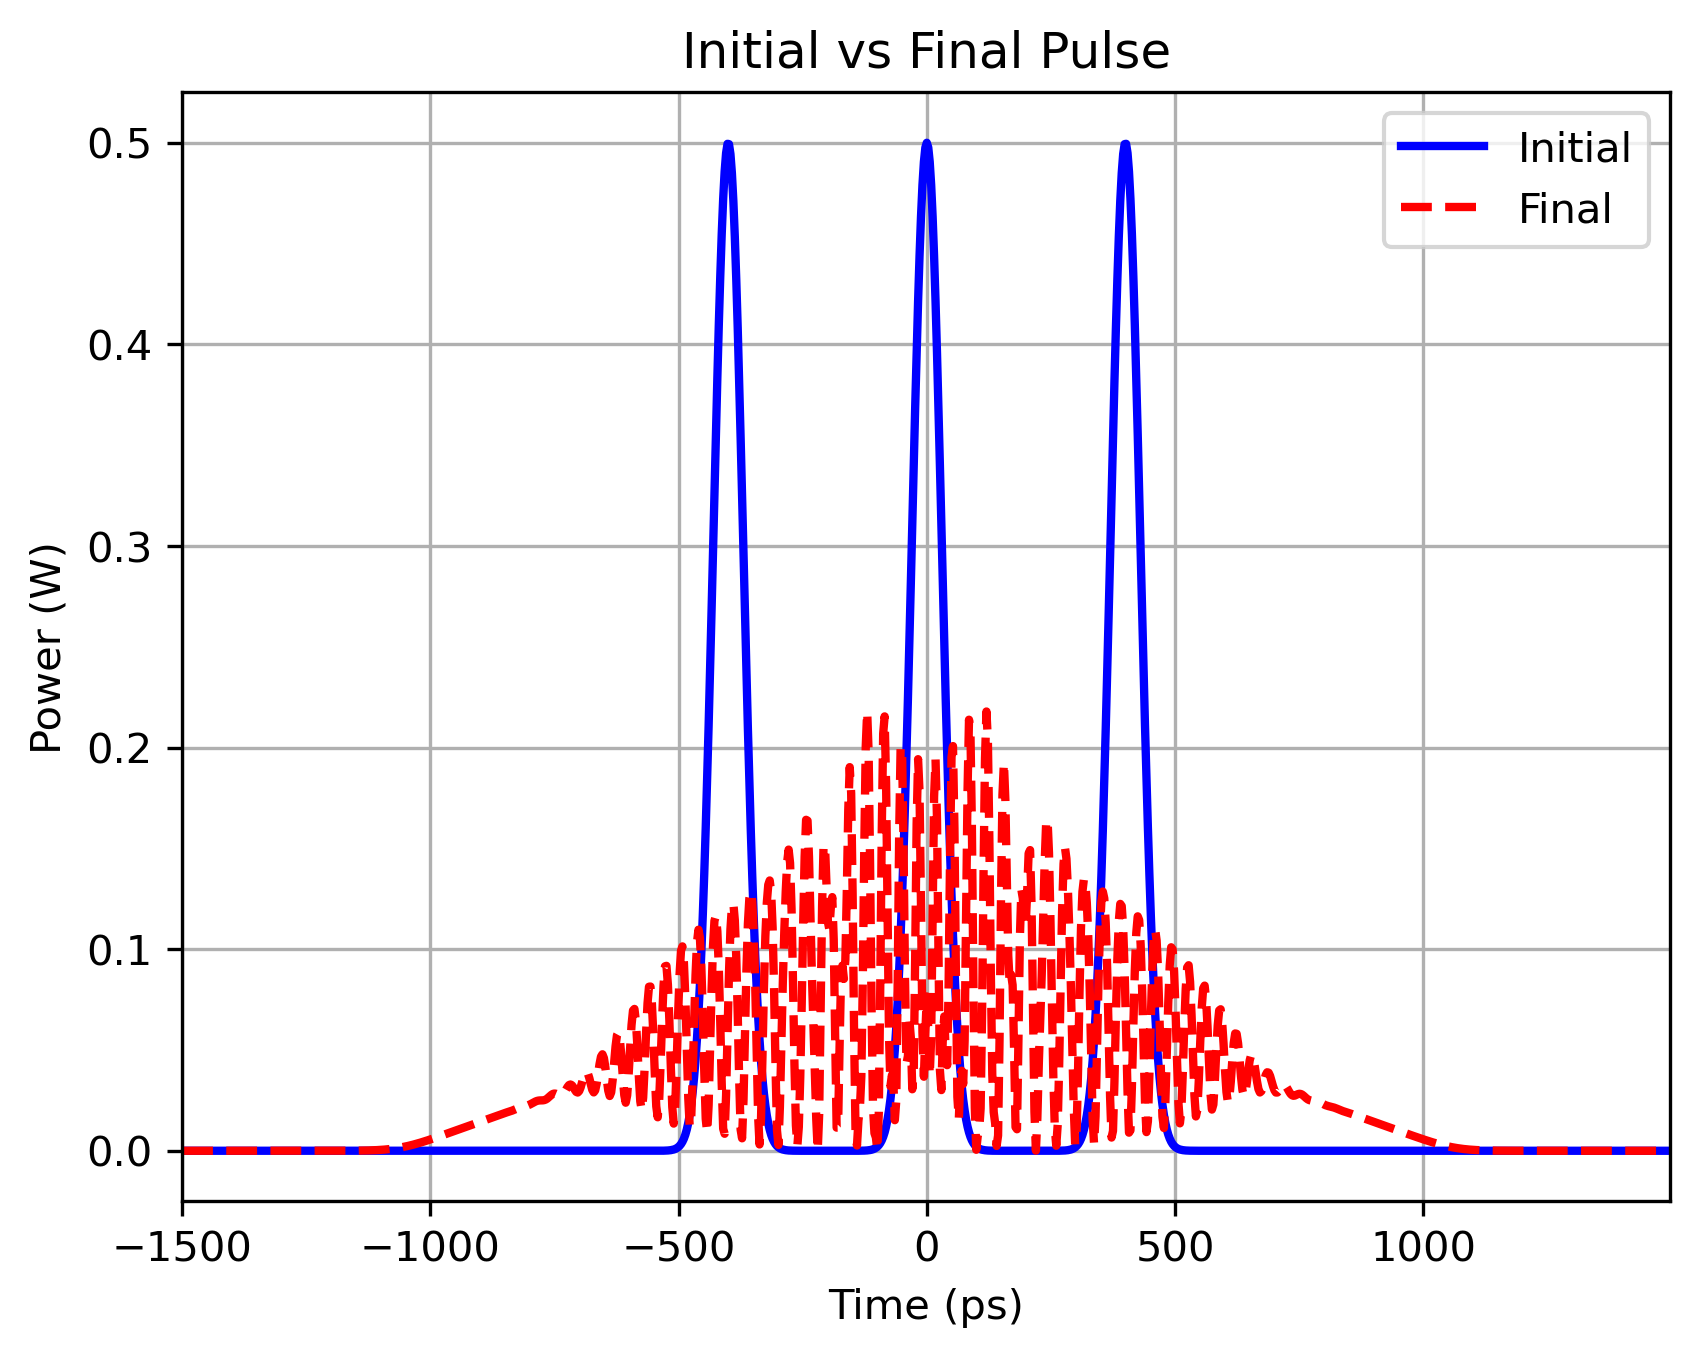
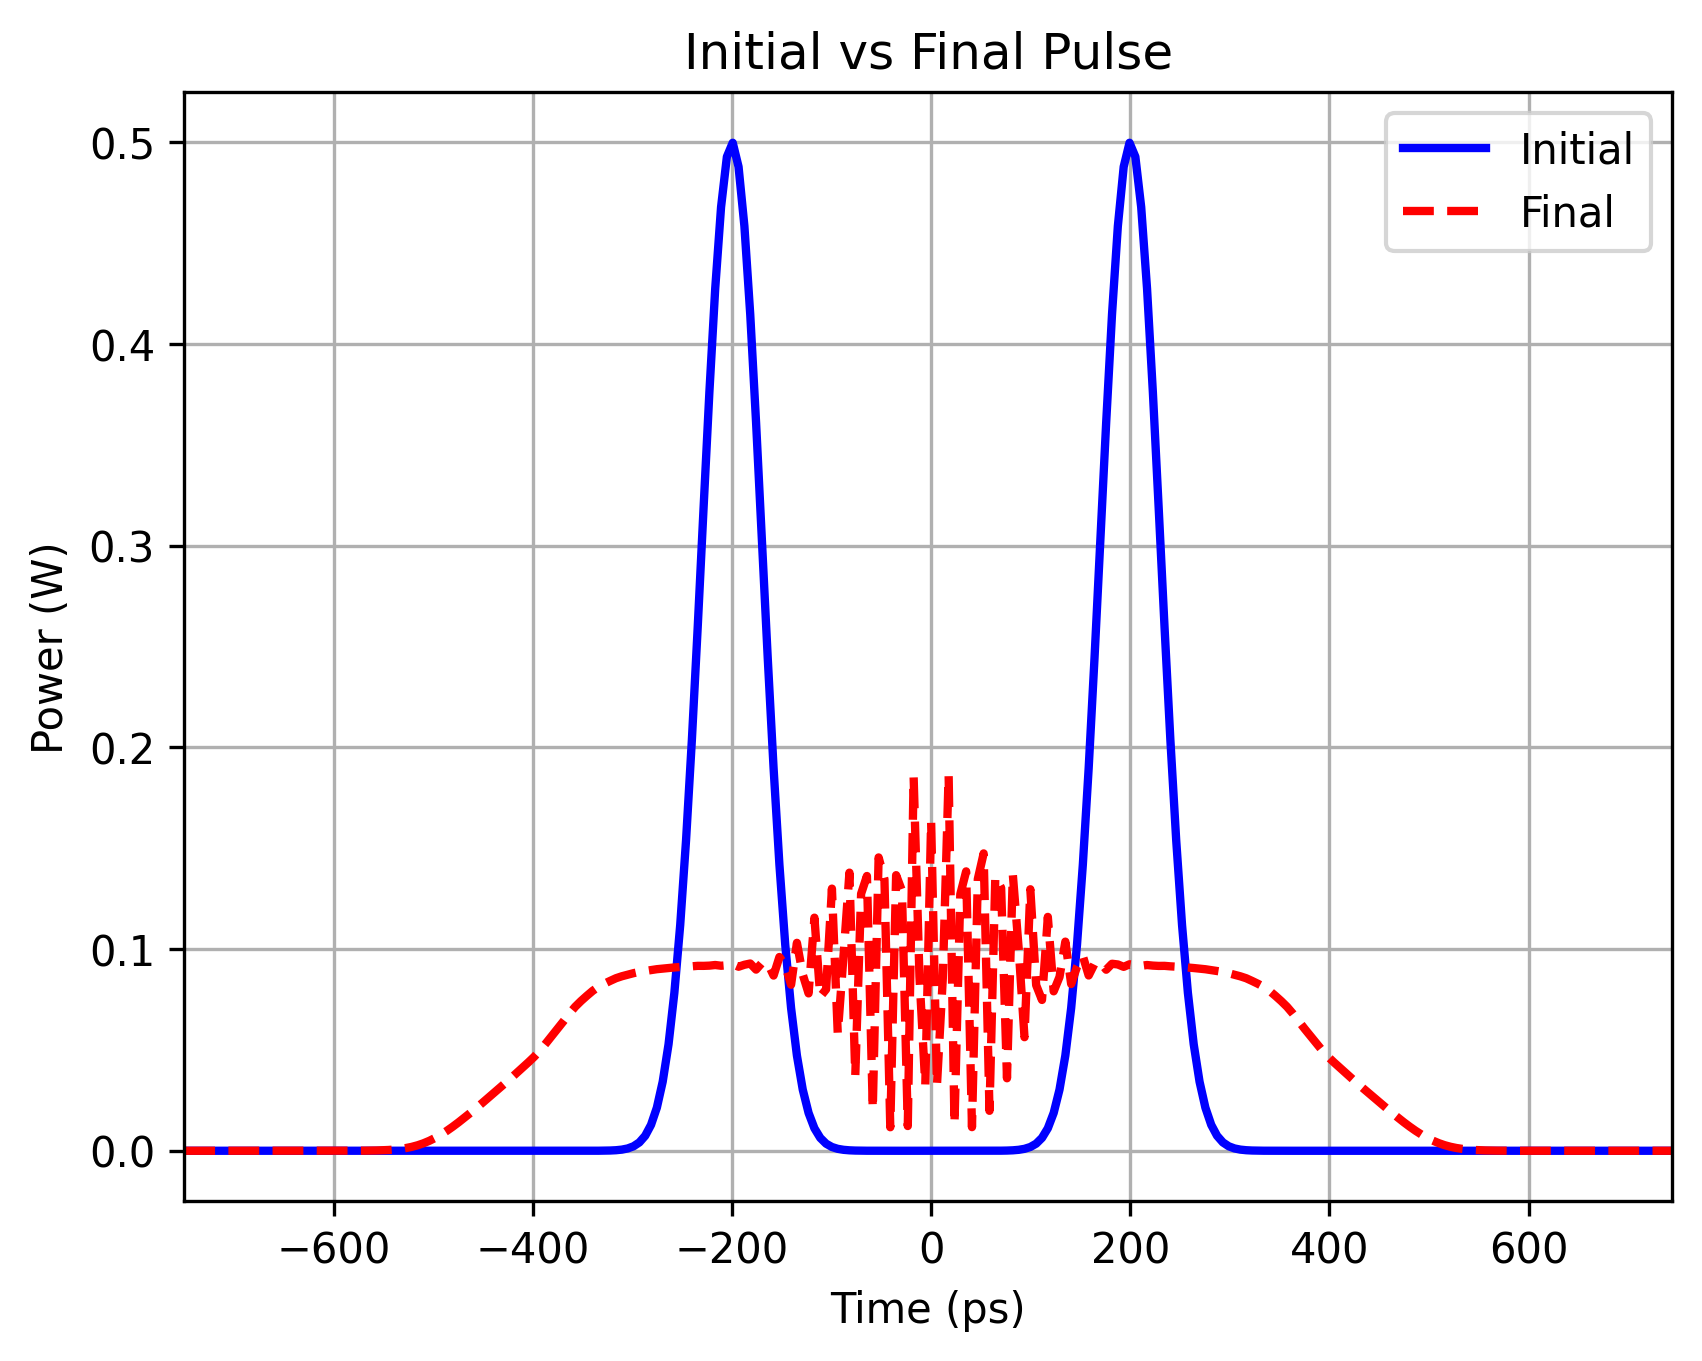
t_ratio3

diff --git a/tune.py b/tune.py
@@ -2,7 +2,7 @@ from __future__ import annotations
 
 import argparse
 from dataclasses import replace
-from typing import List, Sequence, Tuple
+from typing import List, Optional, Sequence, Tuple
 
 import optuna
 
@@ -17,11 +17,11 @@ from train import train
 def split_dataset(
     dataset: PulseEvolutionDataset,
     val_fraction: float,
-    seed: int,
+    seed: int | None,
 ) -> tuple[Subset, Subset]:
     """Randomly split dataset into train/val subsets."""
 
-    generator = torch.Generator().manual_seed(seed)
+    generator = torch.Generator().manual_seed(seed) if seed is not None else None
     indices = torch.randperm(len(dataset), generator=generator)
     val_size = max(1, int(len(indices) * val_fraction))
     val_idx = indices[:val_size]
@@ -47,25 +47,30 @@ def evaluate_mse(model: torch.nn.Module, dataloader: DataLoader, device: torch.d
 
 
 def build_argparser() -> argparse.ArgumentParser:
+    default_cfg = TrainingConfig()
     parser = argparse.ArgumentParser(description="Lightweight hyperparameter search over network depth/width.")
     parser.add_argument("--data-path", default="data/pulse_evolution.mat", help="Path to the MATLAB tensor.")
     parser.add_argument("--trials", type=int, default=10, help="Number of Optuna trials.")
-    parser.add_argument("--epochs", type=int, default=30, help="Epochs per trial (keep small for quick sweeps / pruning).")
+    parser.add_argument("--epochs", type=int, default=20, help="Epochs per trial (keep small for quick sweeps / pruning).")
     parser.add_argument("--val-fraction", type=float, default=0.1, help="Validation split fraction.")
     parser.add_argument("--device", choices=["cpu", "cuda", "auto"], default="auto", help="Computation device.")
     parser.add_argument("--mode", choices=["mlp", "pinn"], default="pinn", help="Training mode for trials.")
-    parser.add_argument("--seed", type=int, default=0, help="Random seed for reproducibility.")
-    parser.add_argument("--min-layers", type=int, default=2, help="Minimum hidden layers.")
+    parser.add_argument(
+        "--seed",
+        type=int,
+        default=default_cfg.seed,
+        help="Optional random seed for reproducibility (leave unset for randomised runs).",
+    )
+    parser.add_argument("--min-layers", type=int, default=3, help="Minimum hidden layers.")
     parser.add_argument("--max-layers", type=int, default=3, help="Maximum hidden layers.")
     parser.add_argument("--widths", default="256", help="Comma-separated choices for hidden widths.")
     parser.add_argument("--fourier", default="32", help="Comma-separated choices for Fourier features.")
     parser.add_argument("--external", default="0", help="Comma-separated choices for using external layers (broadcast). Default 0 disables external layers during tuning.")
-    parser.add_argument("--lr-min", type=float, default=1e-4, help="Min learning rate for search (log-scale).")
+    parser.add_argument("--lr-min", type=float, default=9e-4, help="Min learning rate for search (log-scale).")
     parser.add_argument("--lr-max", type=float, default=5e-3, help="Max learning rate for search (log-scale).")
-    parser.add_argument("--res-min", type=float, default=5, help="Min residual_weight for search (log-scale).")
-    parser.add_argument("--res-max", type=float, default=20.0, help="Max residual_weight for search (log-scale).")
-    parser.add_argument("--batches", default="64,128", help="Comma-separated candidate batch sizes for search.")
-    parser.add_argument("--t-ratio", type=float, default=1.0, help="Fraction of t-points per z-slice to sample each epoch (0-1].")
+    parser.add_argument("--res-min", type=float, default=0.1, help="Min residual_weight for search (log-scale).")
+    parser.add_argument("--res-max", type=float, default=1.0, help="Max residual_weight for search (log-scale).")
+    parser.add_argument("--batches", default="256", help="Comma-separated candidate batch sizes for search.")
     return parser
 
 
@@ -102,17 +107,18 @@ def build_time_sampler(dataset, t_ratio: float) -> Sampler | None:
     if isinstance(dataset, Subset) and hasattr(dataset.dataset, "nt"):
         base = dataset.dataset
         nt = int(base.nt)
-        z_to_indices = {}
-        for idx in dataset.indices:
-            z_idx = idx // nt
-            z_to_indices.setdefault(z_idx, []).append(int(idx))
+        # Group subset positions (0..len(subset)-1) by their z-slice.
+        z_to_subset_pos: dict[int, list[int]] = {}
+        for subset_pos, orig_idx in enumerate(dataset.indices):
+            z_idx = int(orig_idx) // nt
+            z_to_subset_pos.setdefault(z_idx, []).append(subset_pos)
 
         class _SubsetTimeSampler(Sampler[int]):
             def __iter__(self):
                 import torch
 
                 chosen: list[int] = []
-                for idxs in z_to_indices.values():
+                for idxs in z_to_subset_pos.values():
                     t_count = len(idxs)
                     t_keep = max(1, int(round(t_count * t_ratio)))
                     perm = torch.randperm(t_count)[:t_keep]
@@ -121,7 +127,7 @@ def build_time_sampler(dataset, t_ratio: float) -> Sampler | None:
                 return iter([chosen[i] for i in perm_all])
 
             def __len__(self) -> int:
-                return sum(max(1, int(round(len(v) * t_ratio))) for v in z_to_indices.values())
+                return sum(max(1, int(round(len(v) * t_ratio))) for v in z_to_subset_pos.values())
 
         return _SubsetTimeSampler()
 
@@ -131,7 +137,8 @@ def build_time_sampler(dataset, t_ratio: float) -> Sampler | None:
 def main() -> None:
     args = build_argparser().parse_args()
 
-    dataset = PulseEvolutionDataset(args.data_path, z_stride=TrainingConfig().z_stride)
+    default_cfg = TrainingConfig()
+    dataset = PulseEvolutionDataset(args.data_path, z_stride=default_cfg.z_stride)
     train_ds, val_ds = split_dataset(dataset, val_fraction=args.val_fraction, seed=args.seed)
 
     width_choices = parse_int_list(args.widths)
@@ -139,7 +146,6 @@ def main() -> None:
     external_choices = parse_bool_list(args.external)
     batch_choices = parse_int_list(args.batches)
 
-    default_cfg = TrainingConfig()
     device_choice = args.device
 
     def objective(trial: optuna.Trial) -> float:
@@ -158,6 +164,7 @@ def main() -> None:
             print_every=max(1, args.epochs // 5),
             device=device_choice,
             mode=args.mode,
+            seed=args.seed,
             hidden_layers=hidden,
             fourier_features=ff,
             external_layers=ext,
@@ -165,6 +172,12 @@ def main() -> None:
             residual_weight=res_w,
             batch_size=bs,
         )
+
+        if cfg.seed is not None:
+            trial_seed = cfg.seed
+            torch.manual_seed(trial_seed)
+            if torch.cuda.is_available():
+                torch.cuda.manual_seed_all(trial_seed)
 
         model = SimplePINN(
             input_dim=2,
@@ -177,7 +190,7 @@ def main() -> None:
             external_snr_db=cfg.external_snr_db,
         )
 
-        train_sampler = build_time_sampler(train_ds, args.t_ratio)
+        train_sampler = build_time_sampler(train_ds, default_cfg.t_ratio)
         val_sampler = None  # keep full validation
 
         train_loader = create_dataloader(

diff --git a/pinn/config.py b/pinn/config.py
@@ -13,37 +13,38 @@ class TrainingConfig:
     """Hyperparameters controlling optimisation."""
 
     # Network architecture
-    hidden_layers: tuple[int, ...] = (256, 256, 128)
+    hidden_layers: tuple[int, ...] = (128, 256, 128)
     external_layers: tuple[bool, ...] = (0,0,0,0)  # broadcast or per-linear-layer flags (hidden + output)
     external_snr_db: float = 30.0
 
-    batch_size: int = 64
-    learning_rate: float = 1e-3
-    num_epochs: int = 100
+    batch_size: int = 256
+    learning_rate: float = 10e-3
+    num_epochs: int = 300
     device: DeviceChoice = "auto"
     print_every: int = 10
+    seed: int | None = 1234
     save_path: str = "checkpoints/pinn_mlp.pt"
     num_workers: int = 0
     pin_memory: bool = False
     max_grad_norm: float = 1.0
-    scheduler_patience: int = 15
-    scheduler_factor: float = 0.5
+    scheduler_patience: int = 10
+    scheduler_factor: float = 0.8
     mode: ModeChoice = "pinn"
 
     # Loss weights and sampling for PINN mode
-    data_weight: float = 1
+    data_weight: float = 1.0
     initial_weight: float = 1.0
     boundary_weight: float = 0.0
-    residual_weight: float = 11
-    residual_warmup_epochs: int = 50
-    residual_scale: float = 0.0  # <=0 enables automatic scaling from teacher residual
+    residual_weight: float = 0.2
+    residual_warmup_epochs: int = 0
+    residual_scale: float = 200  # <=0 enables automatic scaling from teacher residual
     ic_samples: int = 256
     bc_samples: int = 256
     residual_samples: int = 2048
     gradient_noise_snr_db: float = 80.0
 
     # Fourier feature encoding
-    fourier_features: int = 4
+    fourier_features: int = 32
     fourier_scale: float = 8.0
 
     # Optional supervised pre-training before PINN fine-tuning
@@ -57,9 +58,9 @@ class TrainingConfig:
     adaptive_balance_max: float = 10.0
 
     # Data subsampling along z
-    z_stride: int = 1
+    z_stride: int = 2
     # Fraction of t samples per z-slice to draw each epoch (0< t_ratio <=1; 1 keeps all)
-    t_ratio: float = 1
+    t_ratio: float = 0.2
 
     pde_variant: PDEVariant = "ssfm"
 

diff --git a/ssfm_traindata.py b/ssfm_traindata.py
@@ -115,8 +115,8 @@ def run_ssfm() -> None:
     data_dir.mkdir(parents=True, exist_ok=True)
 
     # Parameter setup (units mirror the MATLAB script).
-    L = 100 * 1e3  # total length (m)
-    dz = 100.0  # SSFM step (m)
+    L = 50 * 1e3  # total length (m)
+    dz = 10.0  # SSFM step (m)
     Nz = int(round(L / dz))
 
     beta2 = -21.242e-27
@@ -126,15 +126,15 @@ def run_ssfm() -> None:
     gamma = 1.3
     gamma_SI = gamma / 1e3  # (1/W/m)
 
-    T = 3000e-12
-    N = 2**10
+    T = 1500e-12
+    N = 2**8
     dt = T / N
     t = np.arange(-N // 2, N // 2, dtype=np.float64) * dt
 
     P0 = 0.5
     FWHM = 100e-12
     sigma = FWHM / (2 * np.sqrt(2 * np.log(2)))
-    delays = np.array([-400,0,400], dtype=np.float64) * 1e-12
+    delays = np.array([-200,200], dtype=np.float64) * 1e-12
 
     A0 = np.zeros_like(t, dtype=np.complex128)
     for delay in delays:
@@ -145,7 +145,7 @@ def run_ssfm() -> None:
     omega = 2 * np.pi * f
 
     # Save tensor initialisation.
-    save_interval = 10e3  # save every 10 km (value kept identical to MATLAB)
+    save_interval = 0.5e3  # save every 10 km (value kept identical to MATLAB)
     num_save = int(round(L / save_interval))
     Tensor = np.zeros((num_save + 1, N, 2), dtype=np.float64)
     Tensor[0, :, 0] = A0.real

diff --git a/main.py b/main.py
@@ -259,6 +259,12 @@ def build_argument_parser() -> argparse.ArgumentParser:
         default=default_config.t_ratio,
         help="Fraction of t-points per z-slice to sample each epoch (0-1].",
     )
+    parser.add_argument(
+        "--seed",
+        type=int,
+        default=default_config.seed,
+        help="Optional random seed used for data sampling / initialisation.",
+    )
     return parser
 
 
@@ -301,6 +307,7 @@ def main() -> None:
         num_epochs=args.epochs,
         device=args.device,
         print_every=args.print_every,
+        seed=args.seed,
         save_path=save_path,
         num_workers=args.num_workers,
         pin_memory=args.pin_memory,
@@ -338,6 +345,10 @@ def main() -> None:
     )
 
     sampler = None
+    if config.seed is not None:
+        torch.manual_seed(config.seed)
+        if torch.cuda.is_available():
+            torch.cuda.manual_seed_all(config.seed)
     if 0.0 < args.t_ratio < 1.0:
         from pinn.dataset import TimeSliceSampler
         sampler = TimeSliceSampler(dataset, args.t_ratio)
